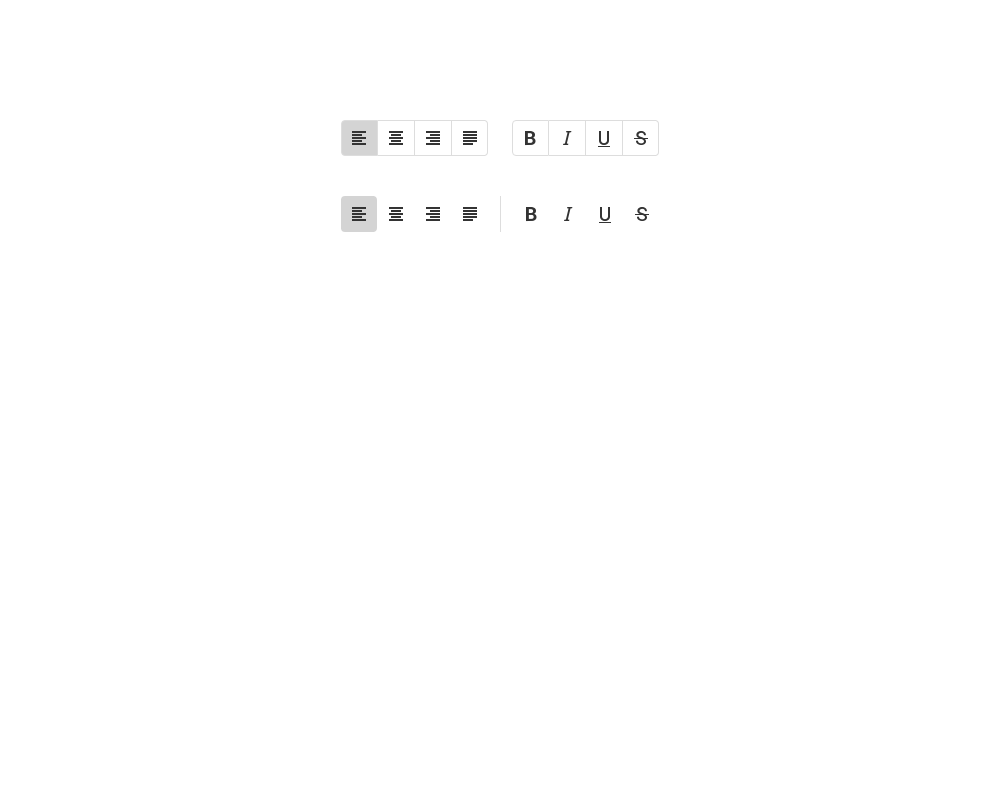
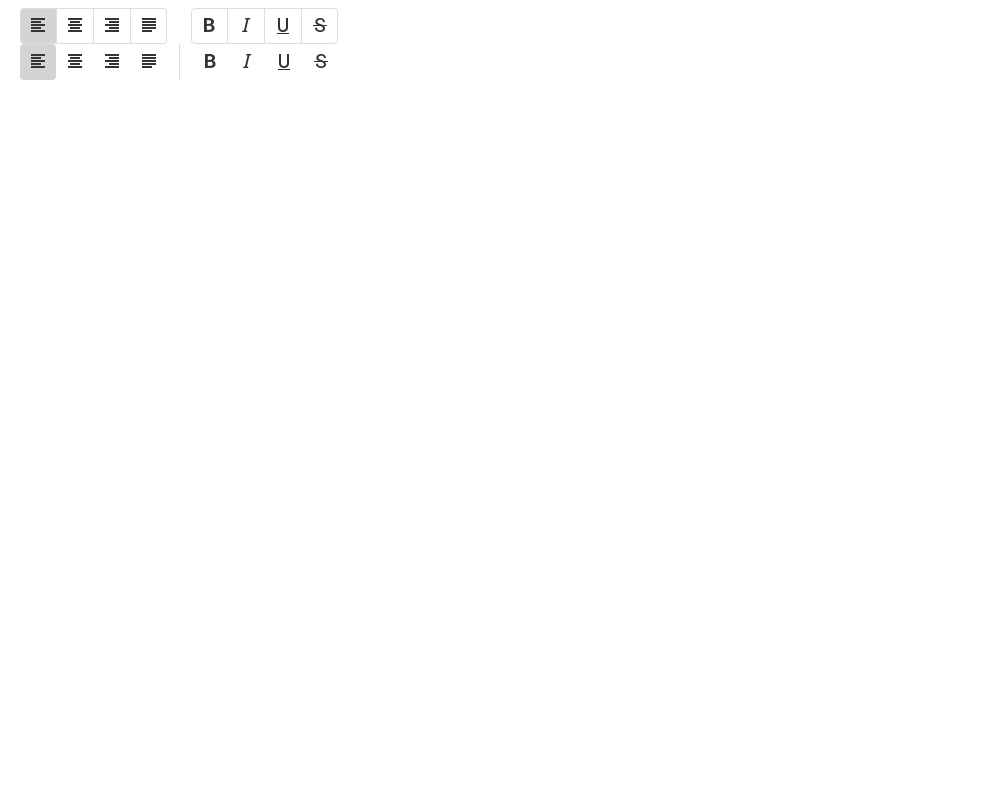
buttongroup-overview

diff --git a/JSDemos/Demos/ButtonGroup/Overview/test-styles.css b/JSDemos/Demos/ButtonGroup/Overview/test-styles.css
@@ -1,0 +1,4 @@
+.buttongroups-container {
+    margin: 0px !important;
+    justify-content: flex-start !important;
+}
